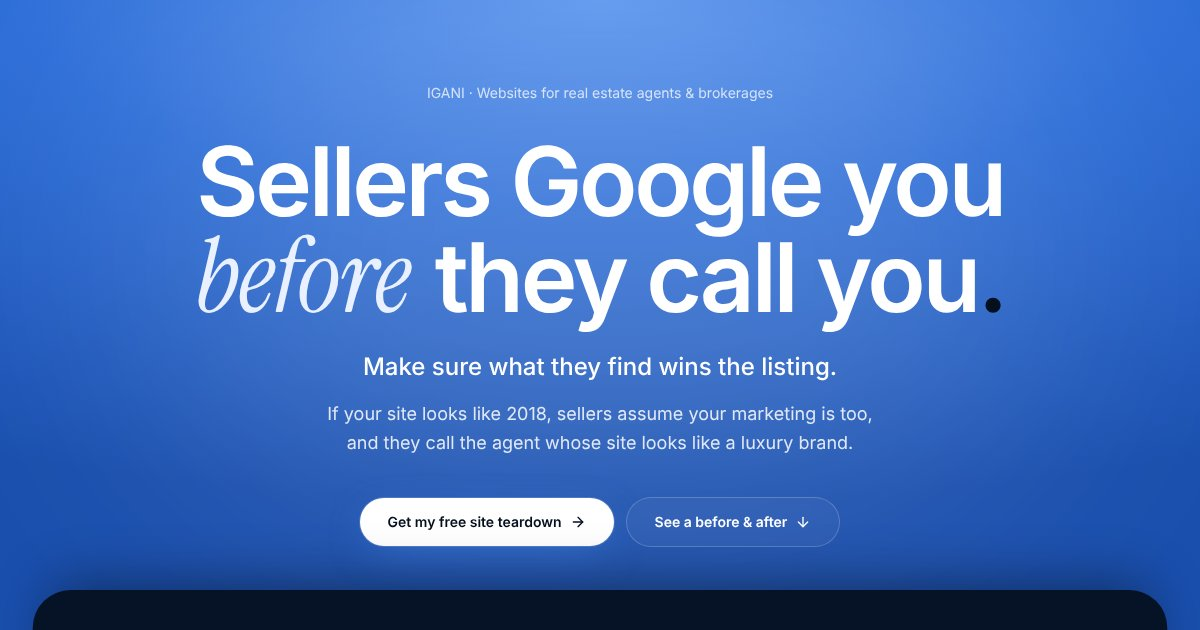
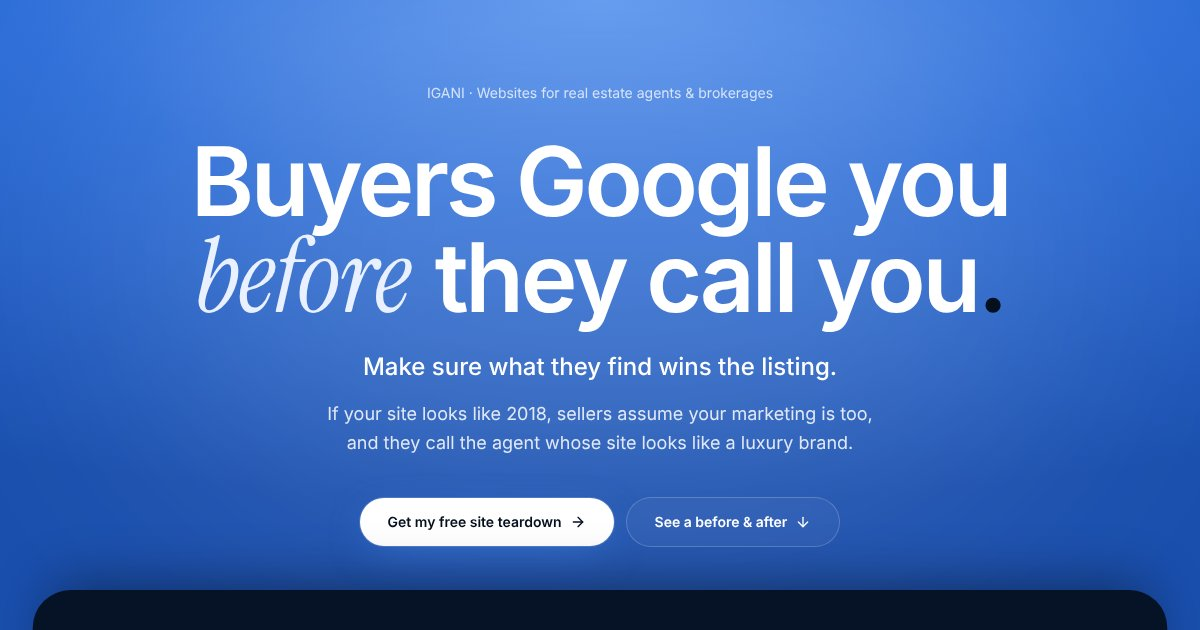
Real estate hero: "Buyers Google you before they call you."
Share text and image updated to match.

Claude-Session: https://claude.ai/code/session_014zaGJzbMyCr4BvfJ5HSRpv

Changed region(s): [[0.1542, 0.2111, 0.8633, 0.3921]]

diff --git a/app/realestate/layout.tsx b/app/realestate/layout.tsx
@@ -2,7 +2,7 @@ import type { Metadata } from 'next'
 
 const TITLE = 'IGANI | Websites for Real Estate Agents'
 const DESCRIPTION =
-  'Sellers Google you before they call you. Websites that win the listing: home valuation and showing-request forms that send leads to your CRM, Matterport 3D tours, and a brand that’s yours.'
+  'Buyers Google you before they call you. Websites that win the listing: home valuation and showing-request forms that send leads to your CRM, Matterport 3D tours, and a brand that’s yours.'
 
 // The social tags are set here too: without them Facebook and X show the main site's title and description
 export const metadata: Metadata = {
@@ -15,7 +15,7 @@ export const metadata: Metadata = {
     url: '/realestate',
     siteName: 'IGANI',
     type: 'website',
-    images: [{ url: '/og/realestate.jpg', width: 1200, height: 630, alt: 'Sellers Google you before they call you. Websites for real estate agents by IGANI' }],
+    images: [{ url: '/og/realestate.jpg', width: 1200, height: 630, alt: 'Buyers Google you before they call you. Websites for real estate agents by IGANI' }],
   },
   twitter: {
     card: 'summary_large_image',

diff --git a/app/components/realestate/Hero.tsx b/app/components/realestate/Hero.tsx
@@ -26,7 +26,7 @@ export function Hero({ onCta, onSeeWork }: { onCta: () => void; onSeeWork: () =>
 
         <FocusIn>
           <h1 className="text-balance text-[clamp(2.6rem,8vw,6.5rem)] font-semibold leading-[0.96] tracking-[-0.035em] text-white">
-            Sellers Google you{' '}
+            Buyers Google you{' '}
             <span className="font-display pr-[0.04em] text-[1.08em] font-normal text-[#e9f0ff]">before</span> they call you
             <span className="text-[#04101e]">.</span>
           </h1>
